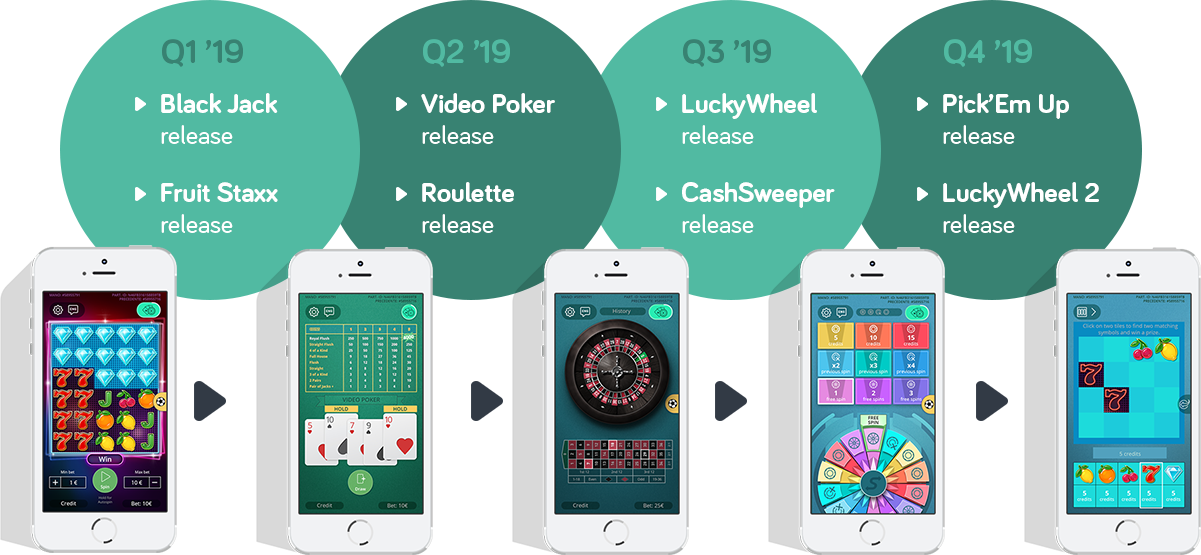
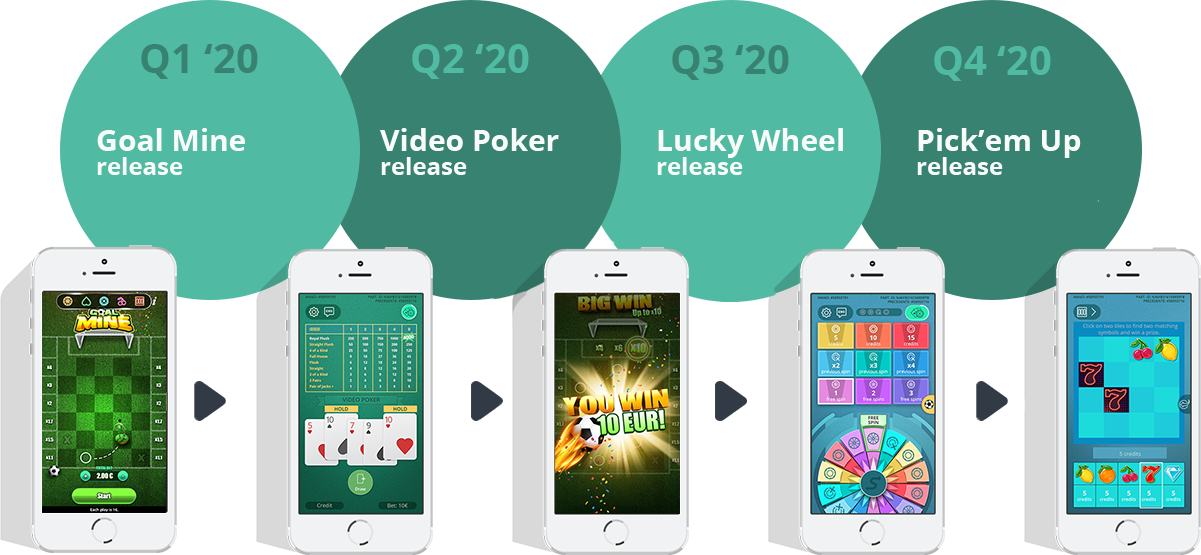
added new image for roadmap

diff --git a/public/css/custom.css b/public/css/custom.css
@@ -159,7 +159,7 @@ html,body
     font-family: 'Roboto-Thin', sans-serif;
 
     color:white;
-    font-size: 3rem;
+    font-size: 2rem;
 
 }
 .home-image-mt p {

diff --git a/resources/views/pages/home.blade.php b/resources/views/pages/home.blade.php
@@ -31,7 +31,7 @@
                 <div class="col-md-10 col-lg-8 offset-md-1 offset-lg-2  mt-md-2 home-image-mt">
                     <div class="row mt-3">
                         
-                        <div class="col-8 col-md-5 col-lg-5 offset-2 offset-md-0 mt-md-5 text-center text-md-left">
+                        <div class="col-6 col-md-5 col-lg-5 offset-3 offset-md-0 mt-md-5 text-center text-md-left">
                             <h1 class ="animated fadeInLeftBig"><b>SIMPLE</b></h1>
                             <h1 class ="text-center text-sm-left animated  bounceInLeft "><b><i>FAST</i></b></h1>
                             <h1 class ="animated  fadeInLeftBig "><b>MOBILE</b></h1>
@@ -41,7 +41,7 @@
                             </div>
                         </div>
 
-                        <div class="col-sm-8 col-12 col-md-7 col-lg-7 offset-sm-2 mb-3  offset-md-0 mt-5 animated zoomIn">
+                        <div class="col-8 col-md-7 col-lg-7 offset-2 mb-3  offset-md-0 mt-5 animated zoomIn">
                                 <img  src="{{url('')}}/images/Home/test.png" class = "img-fluid">
                         </div>
                     </div>
